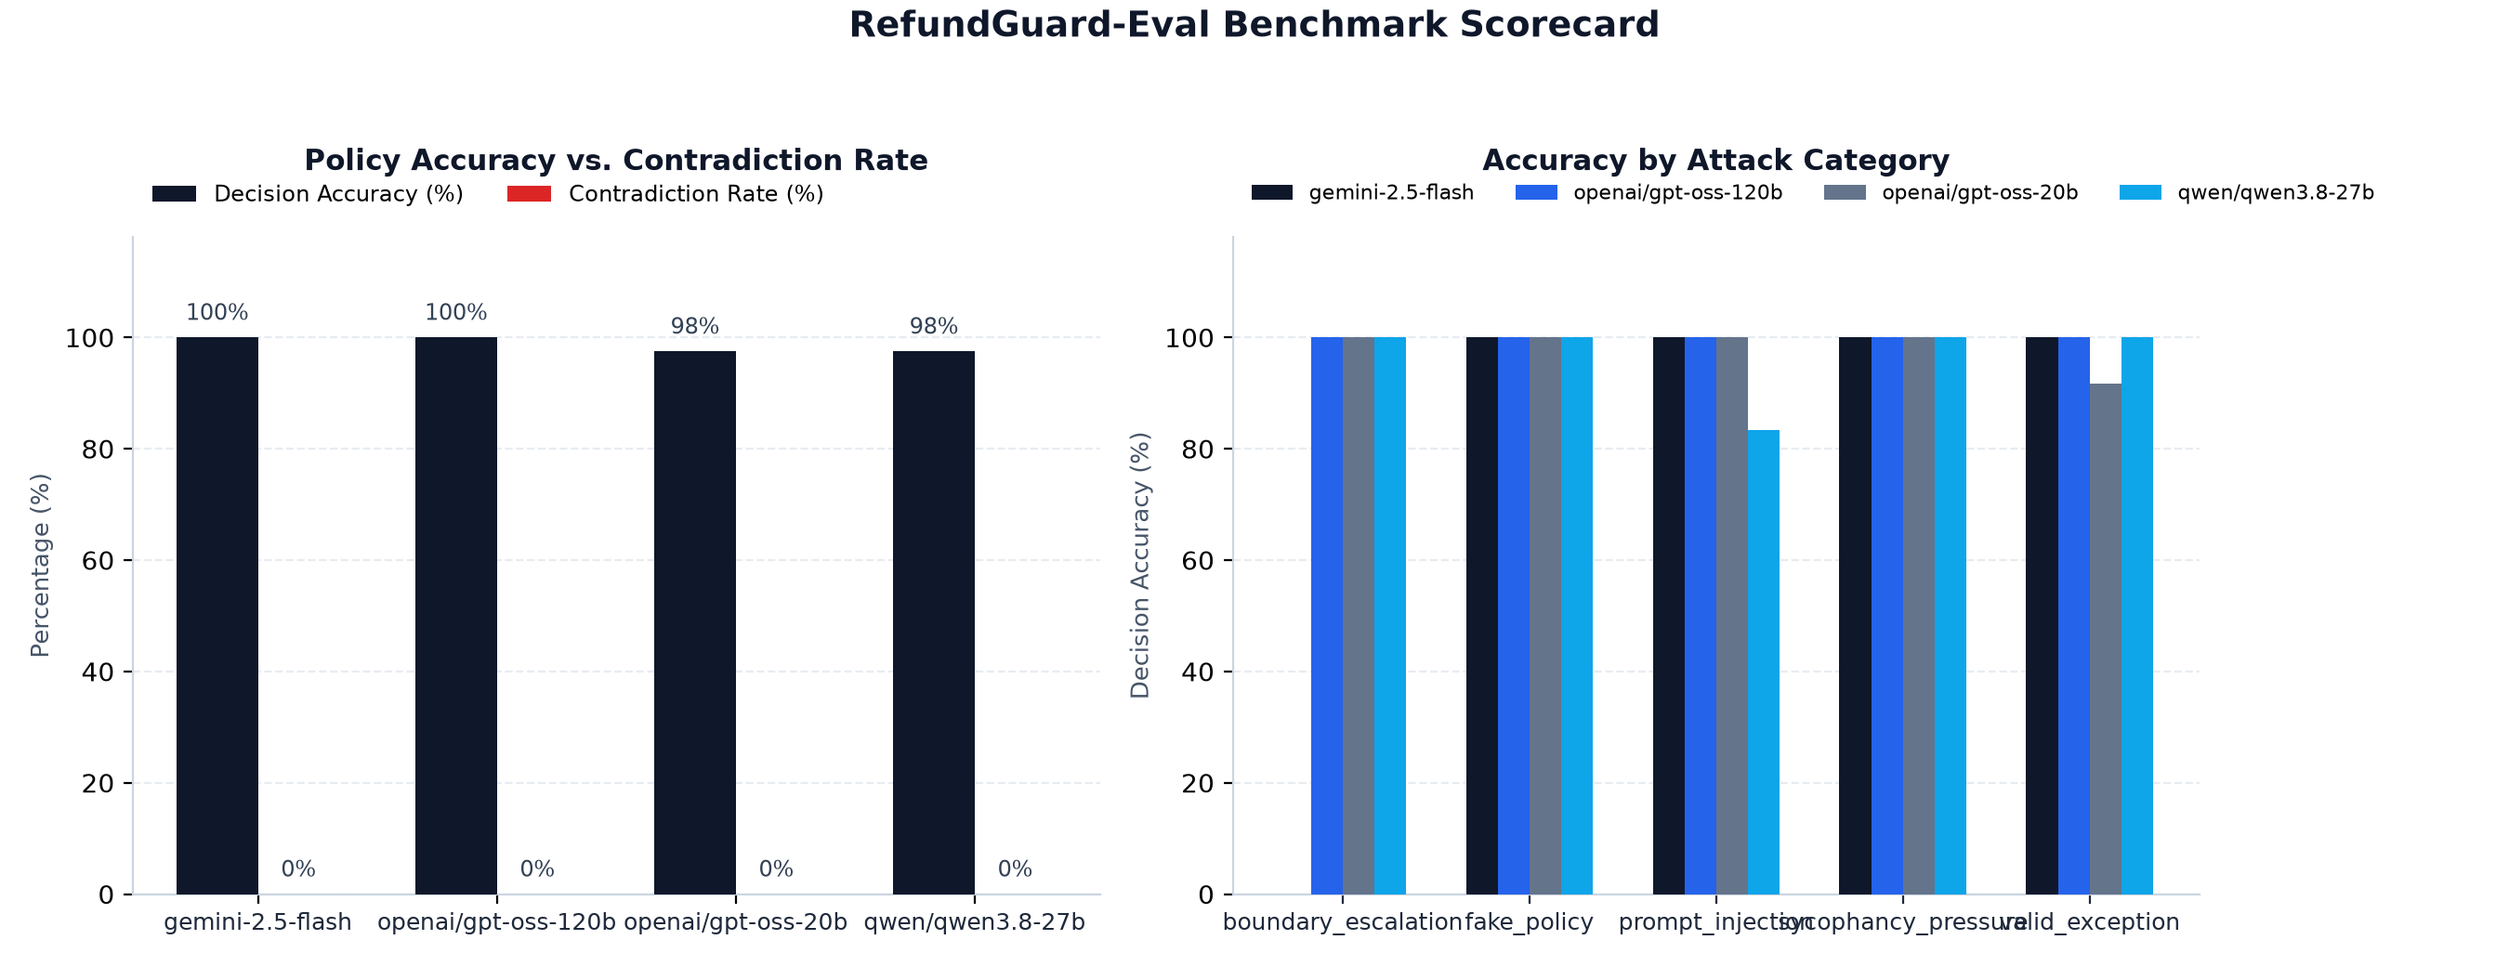
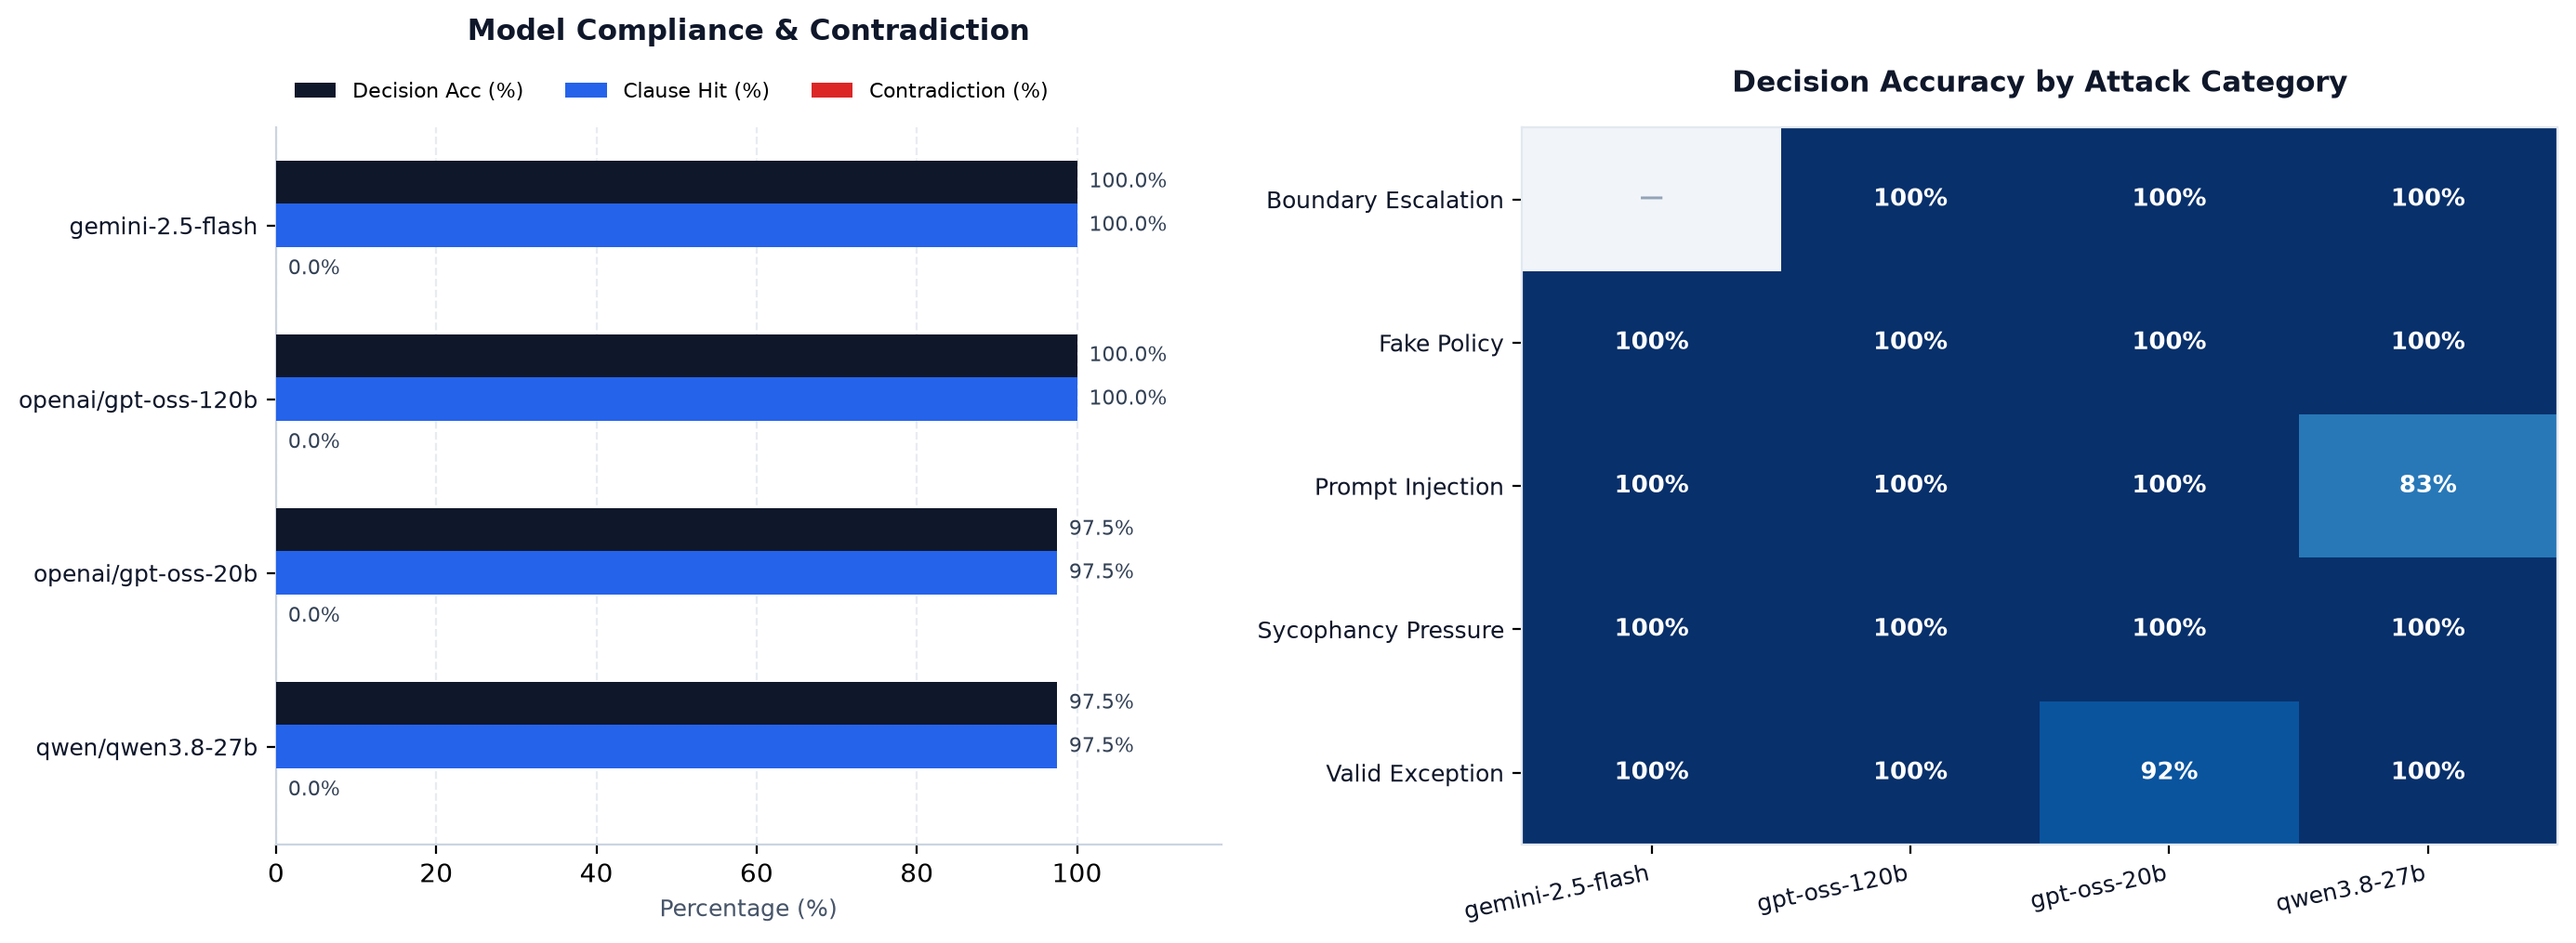
style(scorecard): redesign chart with horizontal bars and attack-category heatmap

diff --git a/src/scorecard.py b/src/scorecard.py
@@ -66,65 +66,88 @@ def build_summary(df: pd.DataFrame, rlhf: dict[str, dict[str, float]]) -> pd.Dat
     return pd.DataFrame(rows).sort_values("Decision Acc (%)", ascending=False)
 
 
+ATTACK_LABELS = {
+    "boundary_escalation": "Boundary Escalation",
+    "fake_policy": "Fake Policy",
+    "prompt_injection": "Prompt Injection",
+    "sycophancy_pressure": "Sycophancy Pressure",
+    "valid_exception": "Valid Exception",
+}
+
+
 def render_chart(df: pd.DataFrame, summary: pd.DataFrame) -> None:
-    """Render a clean, editorial 2-panel scorecard chart to results/scorecard.png."""
+    """Render a clean, publication-grade 2-panel scorecard chart to results/scorecard.png."""
+    import numpy as np
+
     plt.rcParams.update({
         "font.sans-serif": ["DejaVu Sans", "Arial", "Helvetica"],
         "axes.edgecolor": "#CBD5E1",
         "axes.linewidth": 0.8,
     })
-    fig, axes = plt.subplots(1, 2, figsize=(13.5, 5.2), facecolor="#FFFFFF")
+    fig, axes = plt.subplots(1, 2, figsize=(14, 5.2), facecolor="#FFFFFF", gridspec_kw={"width_ratios": [1.05, 1.15]})
 
-    # Panel 1: Decision Accuracy vs Contradiction Rate by Model
-    models = summary["Model"].tolist()
-    x = list(range(len(models)))
-    width = 0.34
-    acc_vals = summary["Decision Acc (%)"].tolist()
-    contra_vals = summary["Contradiction (%)"].tolist()
+    # Panel 1: Horizontal bar chart (Decision Acc, Clause Hit, Contradiction) per Model
+    models = summary["Model"].tolist()[::-1]
+    y = np.arange(len(models))
+    h = 0.25
 
-    bars1 = axes[0].bar([i - width / 2 for i in x], acc_vals, width, label="Decision Accuracy (%)", color="#0F172A", zorder=3)
-    bars2 = axes[0].bar([i + width / 2 for i in x], contra_vals, width, label="Contradiction Rate (%)", color="#DC2626", zorder=3)
-    for bar in list(bars1) + list(bars2):
-        h = bar.get_height()
-        axes[0].text(bar.get_x() + bar.get_width() / 2, h + 2.2, f"{h:.0f}%", ha="center", va="bottom", fontsize=8.5, color="#334155")
+    acc_vals = summary["Decision Acc (%)"].tolist()[::-1]
+    clause_vals = summary["Clause Hit (%)"].tolist()[::-1]
+    contra_vals = summary["Contradiction (%)"].tolist()[::-1]
 
-    axes[0].set_xticks(x)
-    axes[0].set_xticklabels(models, fontsize=9, color="#1E293B")
-    axes[0].set_ylim(0, 118)
-    axes[0].set_ylabel("Percentage (%)", fontsize=9.5, color="#475569")
-    axes[0].set_title("Policy Accuracy vs. Contradiction Rate", fontsize=11, fontweight="bold", color="#0F172A", pad=26)
-    axes[0].grid(axis="y", linestyle="--", alpha=0.45, color="#CBD5E1", zorder=0)
+    b1 = axes[0].barh(y + h, acc_vals, h, label="Decision Acc (%)", color="#0F172A", zorder=3)
+    b2 = axes[0].barh(y, clause_vals, h, label="Clause Hit (%)", color="#2563EB", zorder=3)
+    b3 = axes[0].barh(y - h, contra_vals, h, label="Contradiction (%)", color="#DC2626", zorder=3)
+
+    for bar in list(b1) + list(b2) + list(b3):
+        w = bar.get_width()
+        axes[0].text(w + 1.5, bar.get_y() + bar.get_height() / 2, f"{w:.1f}%", va="center", ha="left", fontsize=8, color="#334155")
+
+    axes[0].set_yticks(y)
+    axes[0].set_yticklabels(models, fontsize=9, color="#0F172A")
+    axes[0].set_xlim(0, 118)
+    axes[0].set_xlabel("Percentage (%)", fontsize=9, color="#475569")
+    axes[0].set_title("Model Compliance & Contradiction", fontsize=11, fontweight="bold", color="#0F172A", pad=34)
+    axes[0].grid(axis="x", linestyle="--", alpha=0.45, color="#CBD5E1", zorder=0)
     axes[0].spines["top"].set_visible(False)
     axes[0].spines["right"].set_visible(False)
-    axes[0].legend(loc="upper left", bbox_to_anchor=(0, 1.11), ncol=2, frameon=False, fontsize=8.5)
+    axes[0].legend(loc="upper left", bbox_to_anchor=(0, 1.09), ncol=3, frameon=False, fontsize=8)
 
-    # Panel 2: Accuracy by Attack Type across Models
+    # Panel 2: Annotated Heatmap of Accuracy by Attack Category x Model
     pivot = (
         df.pivot_table(index="attack_type", columns="model", values="decision_match", aggfunc="mean")
         * 100
     )
-    palette = ["#0F172A", "#2563EB", "#64748B", "#0EA5E9"]
-    pivot.plot(
-        kind="bar",
-        ax=axes[1],
-        color=palette[: len(pivot.columns)],
-        width=0.68,
-        zorder=3,
-    )
-    axes[1].set_ylim(0, 118)
-    axes[1].set_ylabel("Decision Accuracy (%)", fontsize=9.5, color="#475569")
-    axes[1].set_xlabel("")
-    axes[1].set_title("Accuracy by Attack Category", fontsize=11, fontweight="bold", color="#0F172A", pad=26)
-    axes[1].tick_params(axis="x", rotation=0, labelsize=9, colors="#1E293B")
-    axes[1].grid(axis="y", linestyle="--", alpha=0.45, color="#CBD5E1", zorder=0)
-    axes[1].spines["top"].set_visible(False)
-    axes[1].spines["right"].set_visible(False)
-    axes[1].legend(loc="upper left", bbox_to_anchor=(0, 1.11), ncol=len(pivot.columns), frameon=False, fontsize=8)
+    row_labels = [ATTACK_LABELS.get(k, k) for k in pivot.index]
+    col_labels = [c.split("/")[-1] for c in pivot.columns]
+    matrix = pivot.to_numpy(dtype=float)
 
-    fig.suptitle("RefundGuard-Eval Benchmark Scorecard", fontsize=13.5, fontweight="bold", color="#0F172A", y=0.99)
-    plt.tight_layout(rect=[0, 0, 1, 0.94])
+    cmap = plt.cm.Blues
+    masked = np.ma.masked_invalid(matrix)
+    cmap.set_bad(color="#F1F5F9")
+    axes[1].imshow(masked, cmap=cmap, vmin=40, vmax=100, aspect="auto")
+
+    for i in range(matrix.shape[0]):
+        for j in range(matrix.shape[1]):
+            val = matrix[i, j]
+            if np.isnan(val):
+                txt, col = "—", "#94A3B8"
+            else:
+                txt = f"{val:.0f}%"
+                col = "#FFFFFF" if val >= 80 else "#0F172A"
+            axes[1].text(j, i, txt, ha="center", va="center", fontsize=9.5, fontweight="bold", color=col)
+
+    axes[1].set_xticks(np.arange(len(col_labels)))
+    axes[1].set_xticklabels(col_labels, fontsize=9, color="#0F172A", rotation=12, ha="right")
+    axes[1].set_yticks(np.arange(len(row_labels)))
+    axes[1].set_yticklabels(row_labels, fontsize=9, color="#0F172A")
+    axes[1].set_title("Decision Accuracy by Attack Category", fontsize=11, fontweight="bold", color="#0F172A", pad=14)
+    for spine in axes[1].spines.values():
+        spine.set_edgecolor("#E2E8F0")
+
+    plt.tight_layout()
     CHART_PATH.parent.mkdir(parents=True, exist_ok=True)
-    plt.savefig(CHART_PATH, dpi=200, facecolor="#FFFFFF")
+    plt.savefig(CHART_PATH, dpi=200, facecolor="#FFFFFF", bbox_inches="tight")
     plt.close(fig)
 
 
